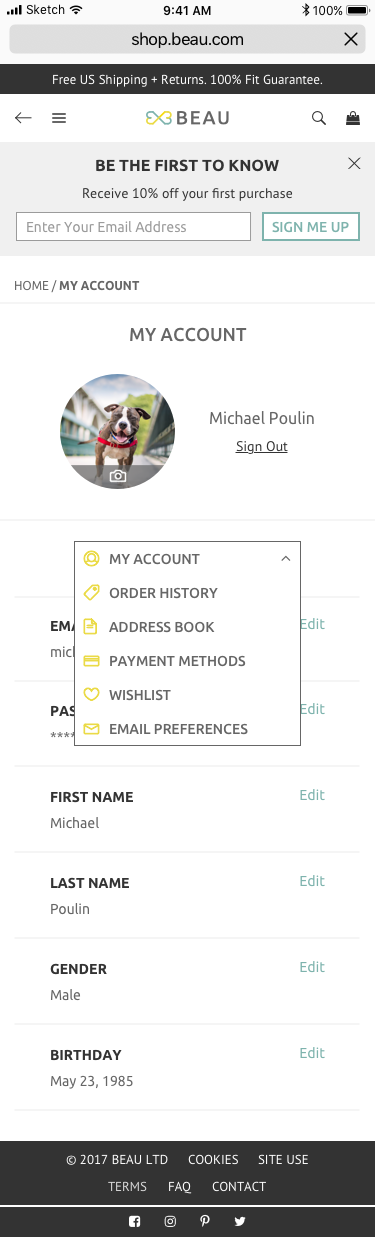
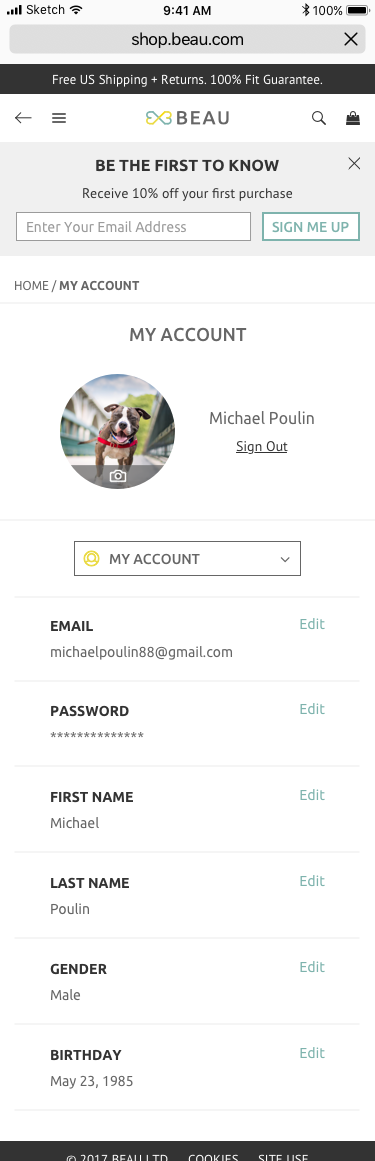
tweak

diff --git a/beau.html b/beau.html
@@ -252,13 +252,13 @@
                 <div class="project-sub-section">   
                     <div class="project-sub-header">Responsive Design</div>
                     <div>
-                        One of the challenges I faced was creating a consistent, yet tailored, experience across both desktop and mobile.  In the case of the My Account page, I had to be a little more creative with how I displayed the side navigation menu.  My first iteration’s main feedback was that all of the information felt too crammed, which may lead to unintentional taps.  In order to solve this problem, I replaced the side navigation menu with a drop-down menu.  A preference test was carried out with potential users, and the redesign won 73.7% of the votes.
+                        One of the challenges I faced was creating a consistent, yet tailored, experience across both desktop and mobile.  In the case of the My Account page, I had to be a little more creative with how I displayed the side navigation menu.  My first iteration’s main feedback was that all of the information felt too crammed, which may lead to <b>unintentional taps</b>.  In order to solve this problem, I replaced the side navigation menu with a <b>drop-down</b>menu.  A preference test was carried out with potential users, and the redesign won <b>73.7%</b> of the votes.
                     </div>
                 </div>
                 <div>   
                     <img class="project-image" src="images/responsive-desktop.jpg" />
                 </div>
-                <div class="cnetered">
+                <div class="centered">
                     <div style="margin-left: 15px; margin-right: 15px;" class="double-image">
                         <img style="width: 100%" src="images/mobile1.png" /> 
                         <div class="image-label centered" style="margin-top: 10px;">Mobile (Iteration)</div>
